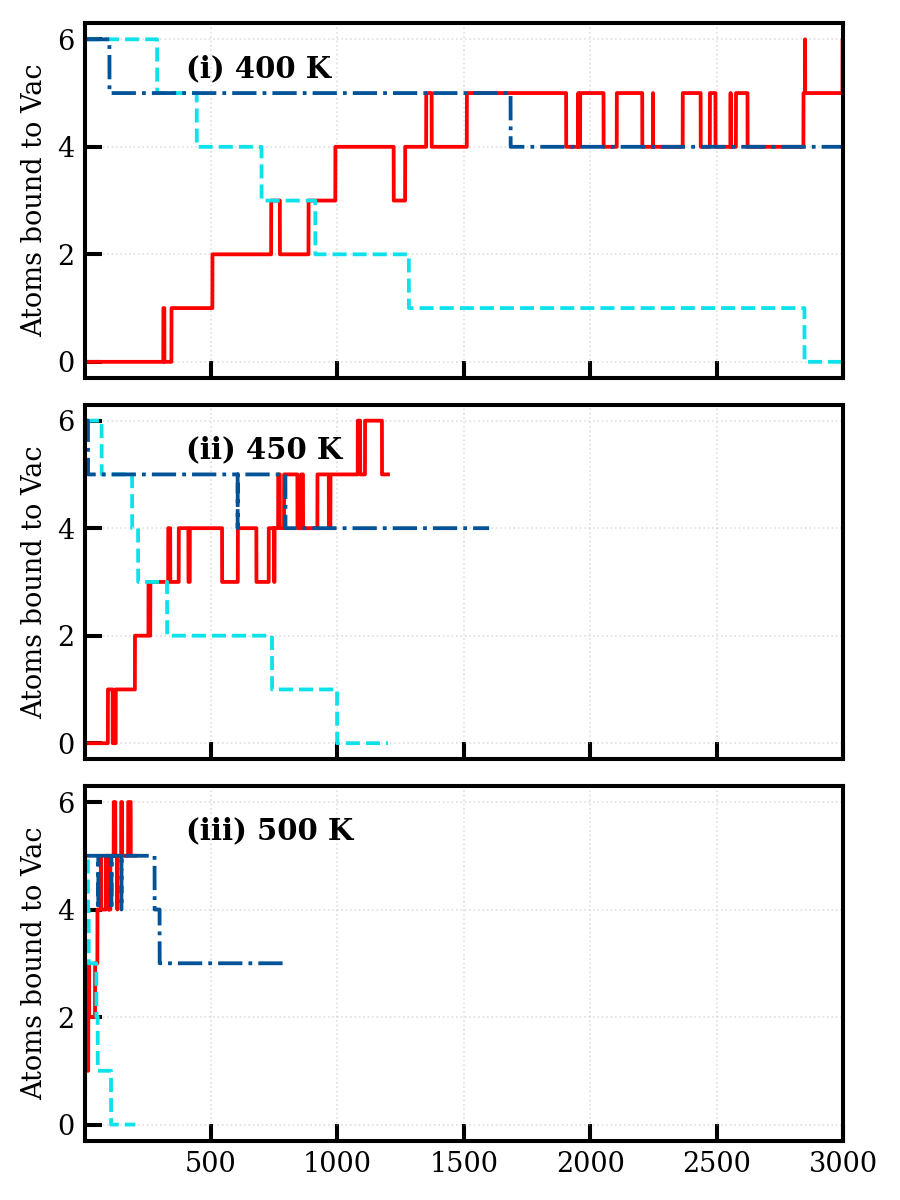
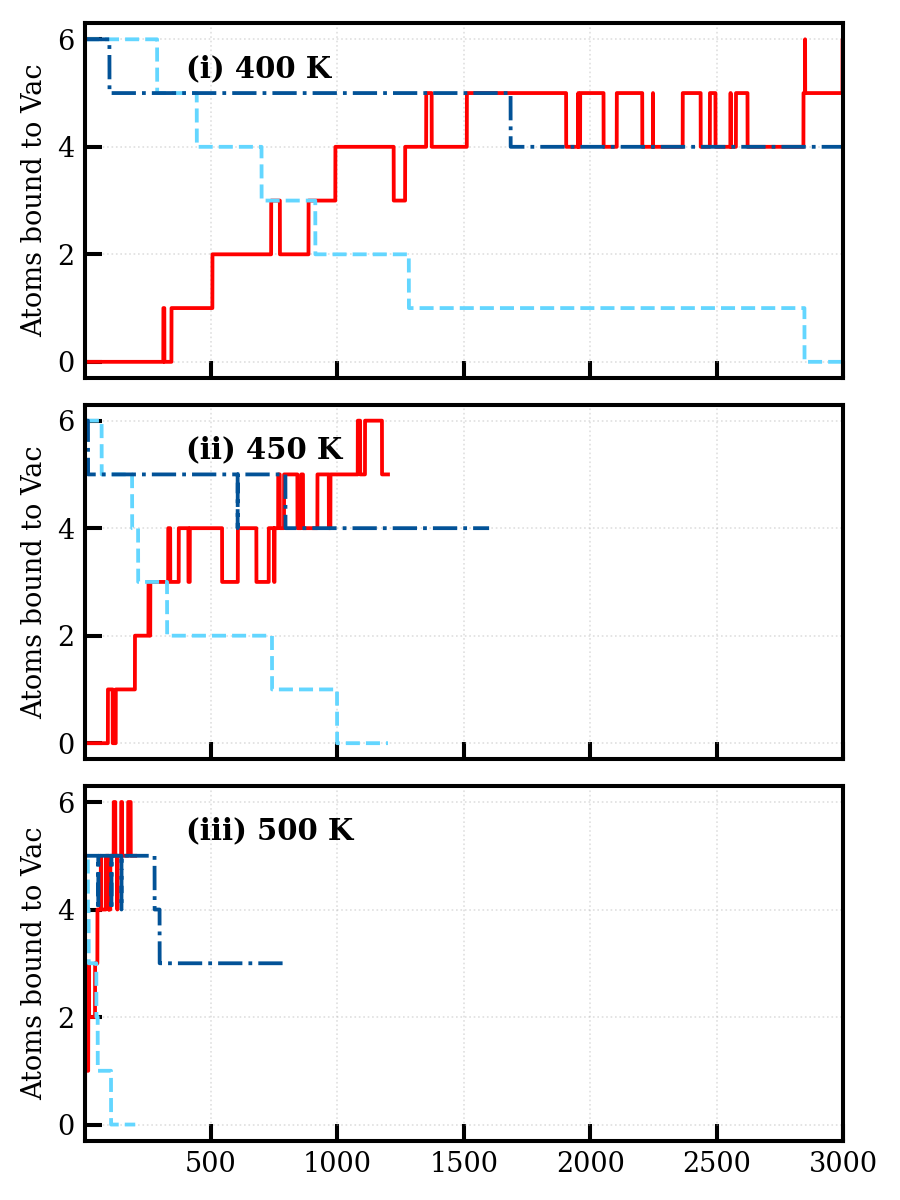
update plots

diff --git a/plotting-scripts/plot_GB_isoEx_comp.py b/plotting-scripts/plot_GB_isoEx_comp.py
@@ -9,10 +9,10 @@ from dataUtils import readData
 path += 'GB_3000W_isoEx_results/'
 
 # HinVac.out format: Timestep NTinVac NHinVac NTinCell
-tTH_isoEx_400K = readData(path+'yGB_3000W_100H_73T_400K_400ns/HinGB.out', [0,1,2])
-tT_diff_400K = readData(path+'yGB_3000W_0H_73T_400K_250ns/HinGB.out', [0,1])
-tTH_isoEx_500K = readData(path+'yGB_3000W_100H_73T_500K_400ns/HinGB.out', [0,1,2])
-tT_diff_500K = readData(path+'yGB_3000W_0H_73T_500K_400ns/HinGB.out', [0,1])
+tTH_isoEx_400K = readData(path+'yGB_3000W_100H_73T_400K_500ns/HinGB.out', [0,1,2])
+tT_diff_400K = readData(path+'yGB_3000W_0H_73T_400K_550ns/HinGB.out', [0,1])
+tTH_isoEx_500K = readData(path+'yGB_3000W_100H_73T_500K_500ns/HinGB.out', [0,1,2])
+tT_diff_500K = readData(path+'yGB_3000W_0H_73T_500K_500ns/HinGB.out', [0,1])
 
 # Convert timesteps --> time in ns
 cf = 1e-6
@@ -29,11 +29,13 @@ print('Drawing figures ...')
 fsize = [6.0, 7.0]
 
 # Upper x-axis limit
-xulim = 300.0
+xulim = 500.0
 
 # axis labels
 ylbl = 'Atoms bound to GB'
 xlbl = 'Time [ns]'
+
+init, step, final = [0,50,-1]
 
 # ------------------------ H&T isoEx vs diffusion --------------------------
 plt.figure(1,fsize)
@@ -44,10 +46,9 @@ def plotter(x, y, isoExStle, lbl):
 
 # 400 K
 plt.subplot(2,1,1)
-init, step, final = [0,100,-1]
+plotter(tT_diff_400K[:, 0], tT_diff_400K[:, 1], isoEx_style['T_diff'], isoEx_labels['T_diff'])
 plotter(tTH_isoEx_400K[init:final:step, 0], tTH_isoEx_400K[init:final:step, 2], isoEx_style['H_iso'], isoEx_labels['H_iso'])
 plotter(tTH_isoEx_400K[init:final:step, 0], tTH_isoEx_400K[init:final:step, 1], isoEx_style['T_iso'], isoEx_labels['T_iso'])
-plotter(tT_diff_400K[:, 0], tT_diff_400K[:, 1], isoEx_style['T_diff'], isoEx_labels['T_diff'])
 plt.xlim((1, xulim))
 plt.xlabel(xlbl)
 plt.ylabel(ylbl)
@@ -56,10 +57,9 @@ plt.gca().axes.get_xaxis().set_ticklabels([]) # Hide x-axis tick labels
     
 # 500 K
 plt.subplot(2,1,2)
-init, step, final = [0,100,-1]
+plotter(tT_diff_500K[:, 0], tT_diff_500K[:, 1], isoEx_style['T_diff'], isoEx_labels['T_diff'])
 plotter(tTH_isoEx_500K[init:final:step, 0], tTH_isoEx_500K[init:final:step, 2], isoEx_style['H_iso'], isoEx_labels['H_iso'])
 plotter(tTH_isoEx_500K[init:final:step, 0], tTH_isoEx_500K[init:final:step, 1], isoEx_style['T_iso'], isoEx_labels['T_iso'])
-plotter(tT_diff_500K[:, 0], tT_diff_500K[:, 1], isoEx_style['T_diff'], isoEx_labels['T_diff'])
 plt.xlim((1, xulim))
 plt.xlabel(xlbl)
 plt.ylabel(ylbl)
@@ -83,10 +83,9 @@ def plotter(x, y, isoExStle, lbl):
 
 # 400 K
 plt.subplot(2,1,1)
-init, step, final = [0,100,-1]
+plotter(tT_diff_400K[:, 0], tT_diff_400K[:, 1], isoEx_style['T_diff'], isoEx_labels['T_diff'])
 plotter(tTH_isoEx_400K[init:final:step, 0], tTH_isoEx_400K[init:final:step, 2], isoEx_style['H_iso'], isoEx_labels['H_iso'])
 plotter(tTH_isoEx_400K[init:final:step, 0], tTH_isoEx_400K[init:final:step, 1], isoEx_style['T_iso'], isoEx_labels['T_iso'])
-plotter(tT_diff_400K[:, 0], tT_diff_400K[:, 1], isoEx_style['T_diff'], isoEx_labels['T_diff'])
 plt.xlim((1, xulim))
 plt.xlabel(xlbl)
 plt.ylabel(ylbl)
@@ -95,10 +94,9 @@ plt.gca().axes.get_xaxis().set_ticklabels([]) # Hide x-axis tick labels
 
 # 500 K
 plt.subplot(2,1,2)
-init, step, final = [0,100,-1]
+plotter(tT_diff_500K[:, 0], tT_diff_500K[:, 1], isoEx_style['T_diff'], isoEx_labels['T_diff'])
 plotter(tTH_isoEx_500K[init:final:step, 0], tTH_isoEx_500K[init:final:step, 2], isoEx_style['H_iso'], isoEx_labels['H_iso'])
 plotter(tTH_isoEx_500K[init:final:step, 0], tTH_isoEx_500K[init:final:step, 1], isoEx_style['T_iso'], isoEx_labels['T_iso'])
-plotter(tT_diff_500K[:, 0], tT_diff_500K[:, 1], isoEx_style['T_diff'], isoEx_labels['T_diff'])
 plt.xlim((1, xulim))
 plt.xlabel(xlbl)
 plt.ylabel(ylbl)

diff --git a/plotting-scripts/plot_disloc_isoEx_comp.py b/plotting-scripts/plot_disloc_isoEx_comp.py
@@ -9,8 +9,8 @@ from dataUtils import readData
 path += 'disloc_isoEx_results/'
 
 # HinVac.out format: Timestep NTinVac NHinVac NTinCell
-tTH_isoEx_400K = readData(path+'disloc_isoEx_400K_300ns/HinDisl.out', [0,1,2])
-tT_diff_400K = readData(path+'disloc_isoEx_400K_0H_300ns/HinDisl.out', [0,1])
+tTH_isoEx_400K = readData(path+'disloc_isoEx_400K_500ns/HinDisl.out', [0,1,2])
+tT_diff_400K = readData(path+'disloc_isoEx_400K_0H_500ns/HinDisl.out', [0,1])
 tTH_isoEx_500K = readData(path+'disloc_isoEx_500K_250ns/HinDisl.out', [0,1,2])
 tT_diff_500K = readData(path+'disloc_isoEx_500K_0H_250ns/HinDisl.out', [0,1])
 
@@ -29,11 +29,13 @@ print('Drawing figures ...')
 fsize = [6.0, 7.0]
 
 # Upper x-axis limit [ns]
-xulim = 300.0
+xulim = 400.0
 
 # axis labels
 ylbl = 'Atoms bound to disl.'
 xlbl = 'Time [ns]'
+
+init, step, final = [0, 50, -1]
 
 # ------------------------ H&T isoEx vs diffusion --------------------------
 plt.figure(1,fsize)
@@ -45,10 +47,9 @@ def plotter(x, y, isoExStle, lbl):
 
 # 400 K
 plt.subplot(2,1,1)
-init, step, final = [0,10,-1]
+plotter(tT_diff_400K[:, 0], tT_diff_400K[:, 1], isoEx_style['T_diff'], isoEx_labels['T_diff'])
 plotter(tTH_isoEx_400K[init:final:step, 0], tTH_isoEx_400K[init:final:step, 2], isoEx_style['H_iso'], isoEx_labels['H_iso'])
 plotter(tTH_isoEx_400K[init:final:step, 0], tTH_isoEx_400K[init:final:step, 1], isoEx_style['T_iso'], isoEx_labels['T_iso'])
-plotter(tT_diff_400K[:, 0], tT_diff_400K[:, 1], isoEx_style['T_diff'], isoEx_labels['T_diff'])
 plt.xlim((1, xulim))
 plt.ylabel(ylbl)
 plt.text(50, 122.5, '(i) 400 K', font)
@@ -56,10 +57,9 @@ plt.gca().axes.get_xaxis().set_ticklabels([]) # Hide x-axis tick labels
 
 # 500 K
 plt.subplot(2,1,2)
-init, step, final = [0,10,-1]
+plotter(tT_diff_500K[:, 0], tT_diff_500K[:, 1], isoEx_style['T_diff'], isoEx_labels['T_diff'])
 plotter(tTH_isoEx_500K[init:final:step, 0], tTH_isoEx_500K[init:final:step, 2], isoEx_style['H_iso'], isoEx_labels['H_iso'])
 plotter(tTH_isoEx_500K[init:final:step, 0], tTH_isoEx_500K[init:final:step, 1], isoEx_style['T_iso'], isoEx_labels['T_iso'])
-plotter(tT_diff_500K[:, 0], tT_diff_500K[:, 1], isoEx_style['T_diff'], isoEx_labels['T_diff'])
 plt.xlim((1, xulim))
 plt.xlabel(xlbl)
 plt.ylabel(ylbl)
@@ -83,10 +83,9 @@ def plotter(x, y, isoExStle, lbl):
 
 # 400 K
 plt.subplot(2,1,1)
-init, step, final = [0,10,-1]
+plotter(tT_diff_400K[:, 0], tT_diff_400K[:, 1], isoEx_style['T_diff'], isoEx_labels['T_diff'])
 plotter(tTH_isoEx_400K[init:final:step, 0], tTH_isoEx_400K[init:final:step, 2], isoEx_style['H_iso'], isoEx_labels['H_iso'])
 plotter(tTH_isoEx_400K[init:final:step, 0], tTH_isoEx_400K[init:final:step, 1], isoEx_style['T_iso'], isoEx_labels['T_iso'])
-plotter(tT_diff_400K[:, 0], tT_diff_400K[:, 1], isoEx_style['T_diff'], isoEx_labels['T_diff'])
 plt.xlim((1, xulim))
 plt.ylabel(ylbl)
 plt.text(1.3, 88, '(i) 400 K', font)
@@ -96,10 +95,9 @@ plt.gca().axes.get_xaxis().set_ticklabels([]) # Hide x-axis tick labels
 
 # 500 K
 plt.subplot(2,1,2)
-init, step, final = [0,10,-1]
+plotter(tT_diff_500K[:, 0], tT_diff_500K[:, 1], isoEx_style['T_diff'], isoEx_labels['T_diff'])
 plotter(tTH_isoEx_500K[init:final:step, 0], tTH_isoEx_500K[init:final:step, 2], isoEx_style['H_iso'], isoEx_labels['H_iso'])
 plotter(tTH_isoEx_500K[init:final:step, 0], tTH_isoEx_500K[init:final:step, 1], isoEx_style['T_iso'], isoEx_labels['T_iso'])
-plotter(tT_diff_500K[:, 0], tT_diff_500K[:, 1], isoEx_style['T_diff'], isoEx_labels['T_diff'])
 plt.xlim((1, xulim))
 plt.xlabel(xlbl)
 plt.ylabel(ylbl)

diff --git a/plotting-scripts/plotStyle.py b/plotting-scripts/plotStyle.py
@@ -49,7 +49,7 @@ font = {'family': 'DeJaVu Serif', 'color':  'black', 'weight': 'bold','size': fs
 # Plot marker & line styles
 #H_iso_color, T_iso_color, T_diff_color = ['#40bad5','#035aa6','#120136']  # All-blue 
 H_iso_color, T_iso_color, T_diff_color = ['#ffa41b','#0de2ea','#025297']  # Blue-orange
-H_iso_color, T_iso_color, T_diff_color = ['#ff0000','#0de2ea','#025297']  # Blue-red
+H_iso_color, T_iso_color, T_diff_color = ['#ff0000','#63d6ff','#025297']  # Blue-red
 #H_iso_color, T_iso_color, T_diff_color = ['#003f5c','#bb053c','#ffa41b']  # Germany
 #H_iso_color, T_iso_color, T_diff_color = ['#ff7f0e','#ff7f0e','#2ca02c']  # Matplotlib default-ish
 
